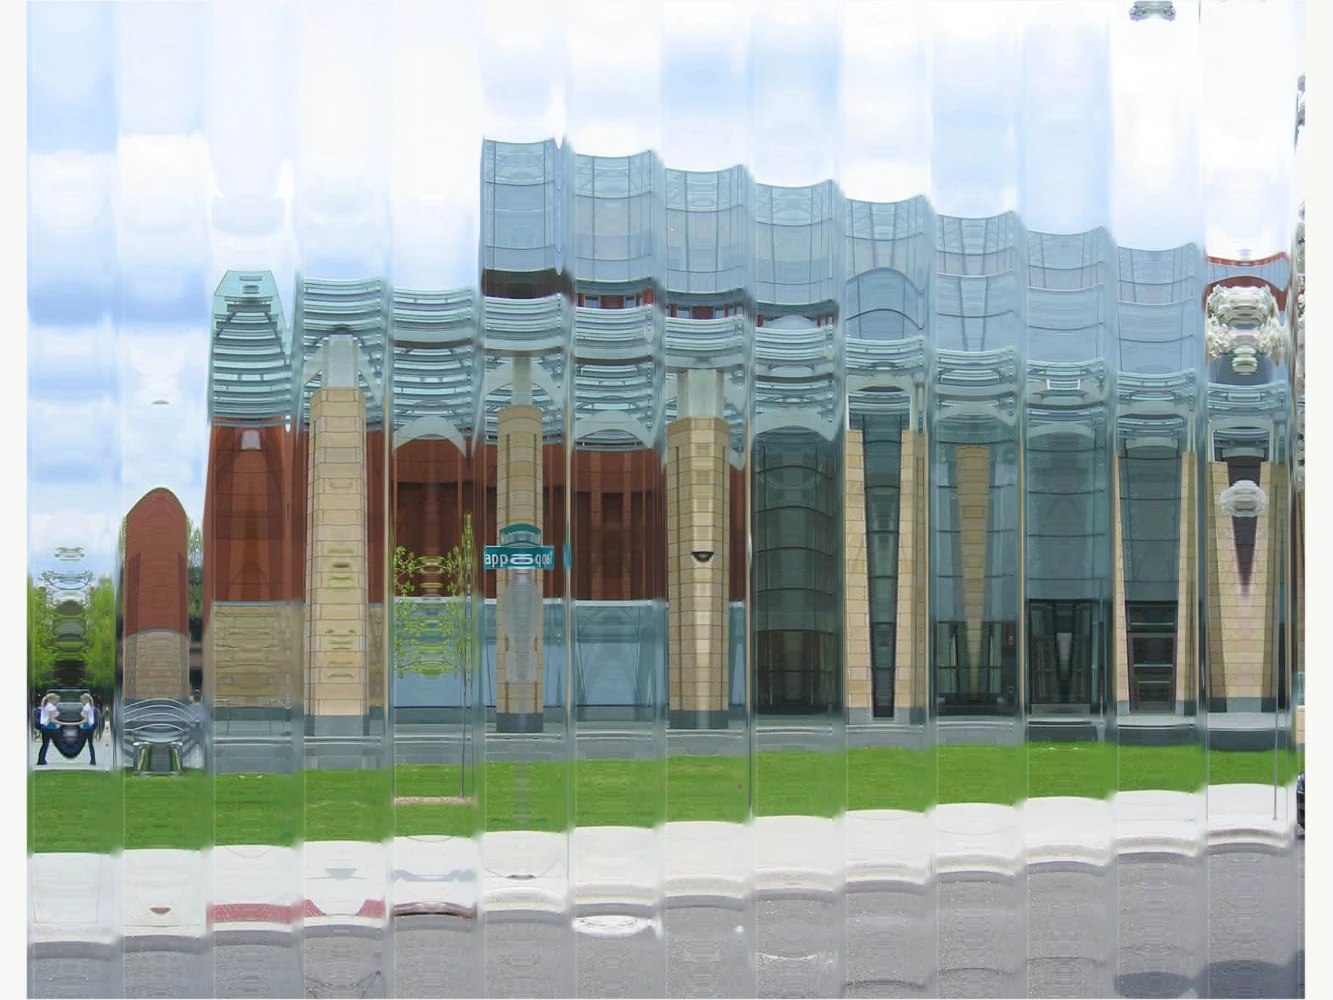
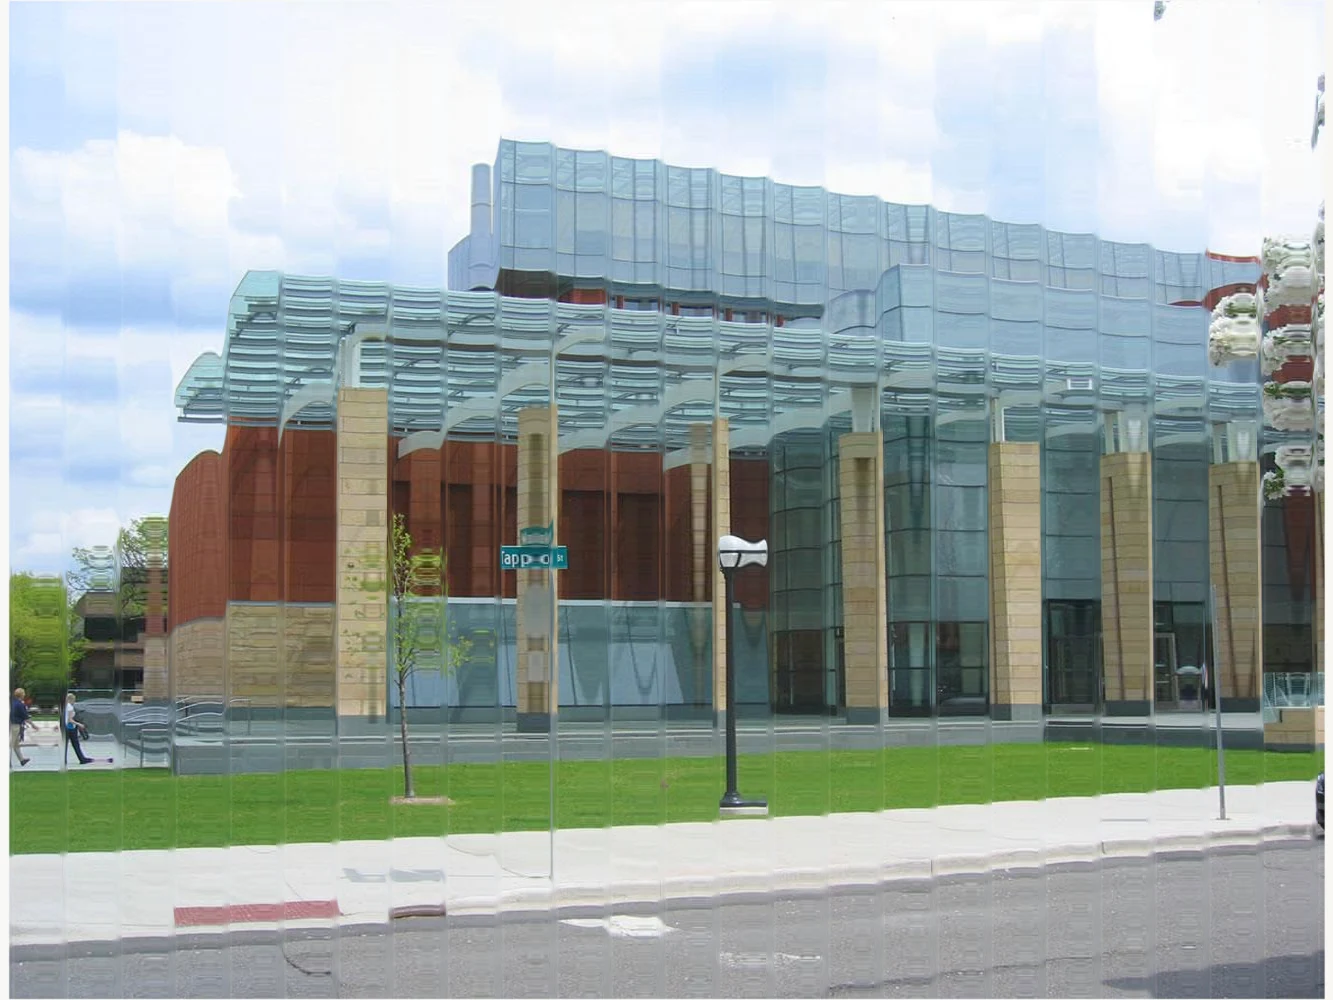
Soften Ross glass refraction and tighten pane spacing

diff --git a/docs/design/consulting/hero-photo-source.md b/docs/design/consulting/hero-photo-source.md
@@ -25,6 +25,6 @@ The official Ross campus page identifies this as the Michigan Ross building at s
 
 Sam requested using a Ross photo with Paper Design's paned glass treatment as the consulting hero image. `public/consulting/ross-paned-glass.webp` is a derivative of the existing, previously selected `ross-front-entrance.jpg` above. It retains that source and credit. The community section now uses a heading and text without artwork.
 
-Rendered using the actual Paper Design `FlutedGlass` shader from `@paper-design/shaders-react` 0.0.80 in Chrome WebGL2 at 1333 × 1000. Settings: lines, prism, size 0.95, distortion 0.2, shadows 0.12, highlights 0.12, angle/shift/stretch/blur/edges/grain/speed 0, fit cover, background #f8f7f3, shadow #0a3658, highlight #ffffff. Exported at WebP quality 88. The glass treatment is baked into the asset; the hero loads it with high priority as a normal image, adding no runtime shader bundle, GPU context, or animation. The original photo remains unchanged.
+Rendered using the actual Paper Design `FlutedGlass` shader from `@paper-design/shaders-react` 0.0.80 in Chrome WebGL2 at 1333 × 1000. Settings: lines, prism, size 0.9, distortion 0.09, shadows 0.055, highlights 0.065, angle/shift/stretch/blur/edges/grain/speed 0, fit cover, background #f8f7f3, shadow #0a3658, highlight #ffffff. Exported at WebP quality 88. The glass treatment is baked into the asset; the hero loads it with high priority as a normal image, adding no runtime shader bundle, GPU context, or animation. The original photo remains unchanged.
 
 Paper reference: https://shaders.paper.design/fluted-glass. The hero uses a responsive cover crop and a dark overlay for white text and controls.
